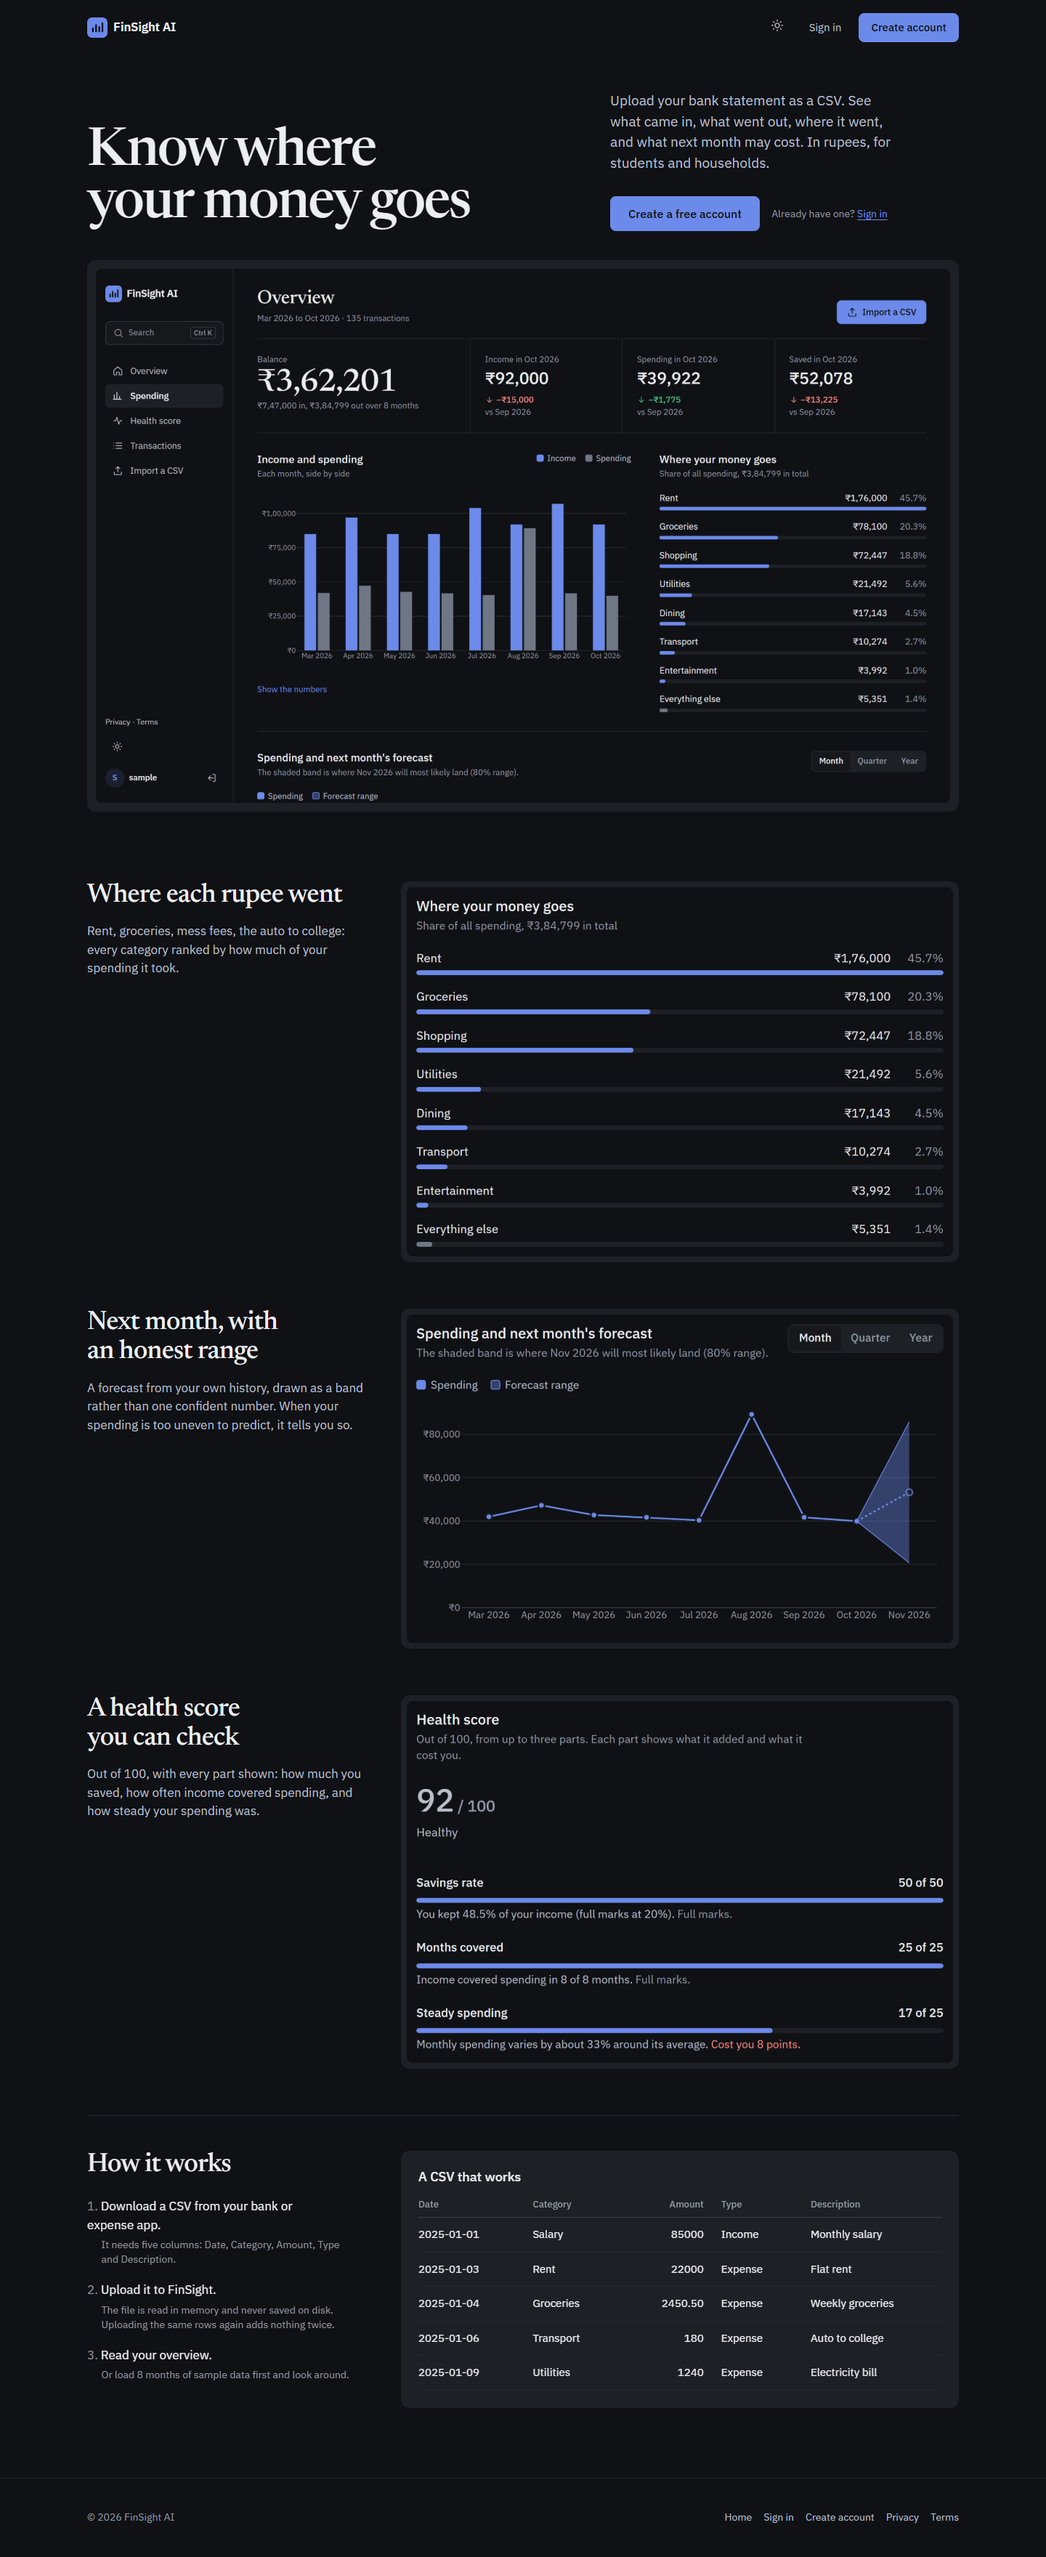
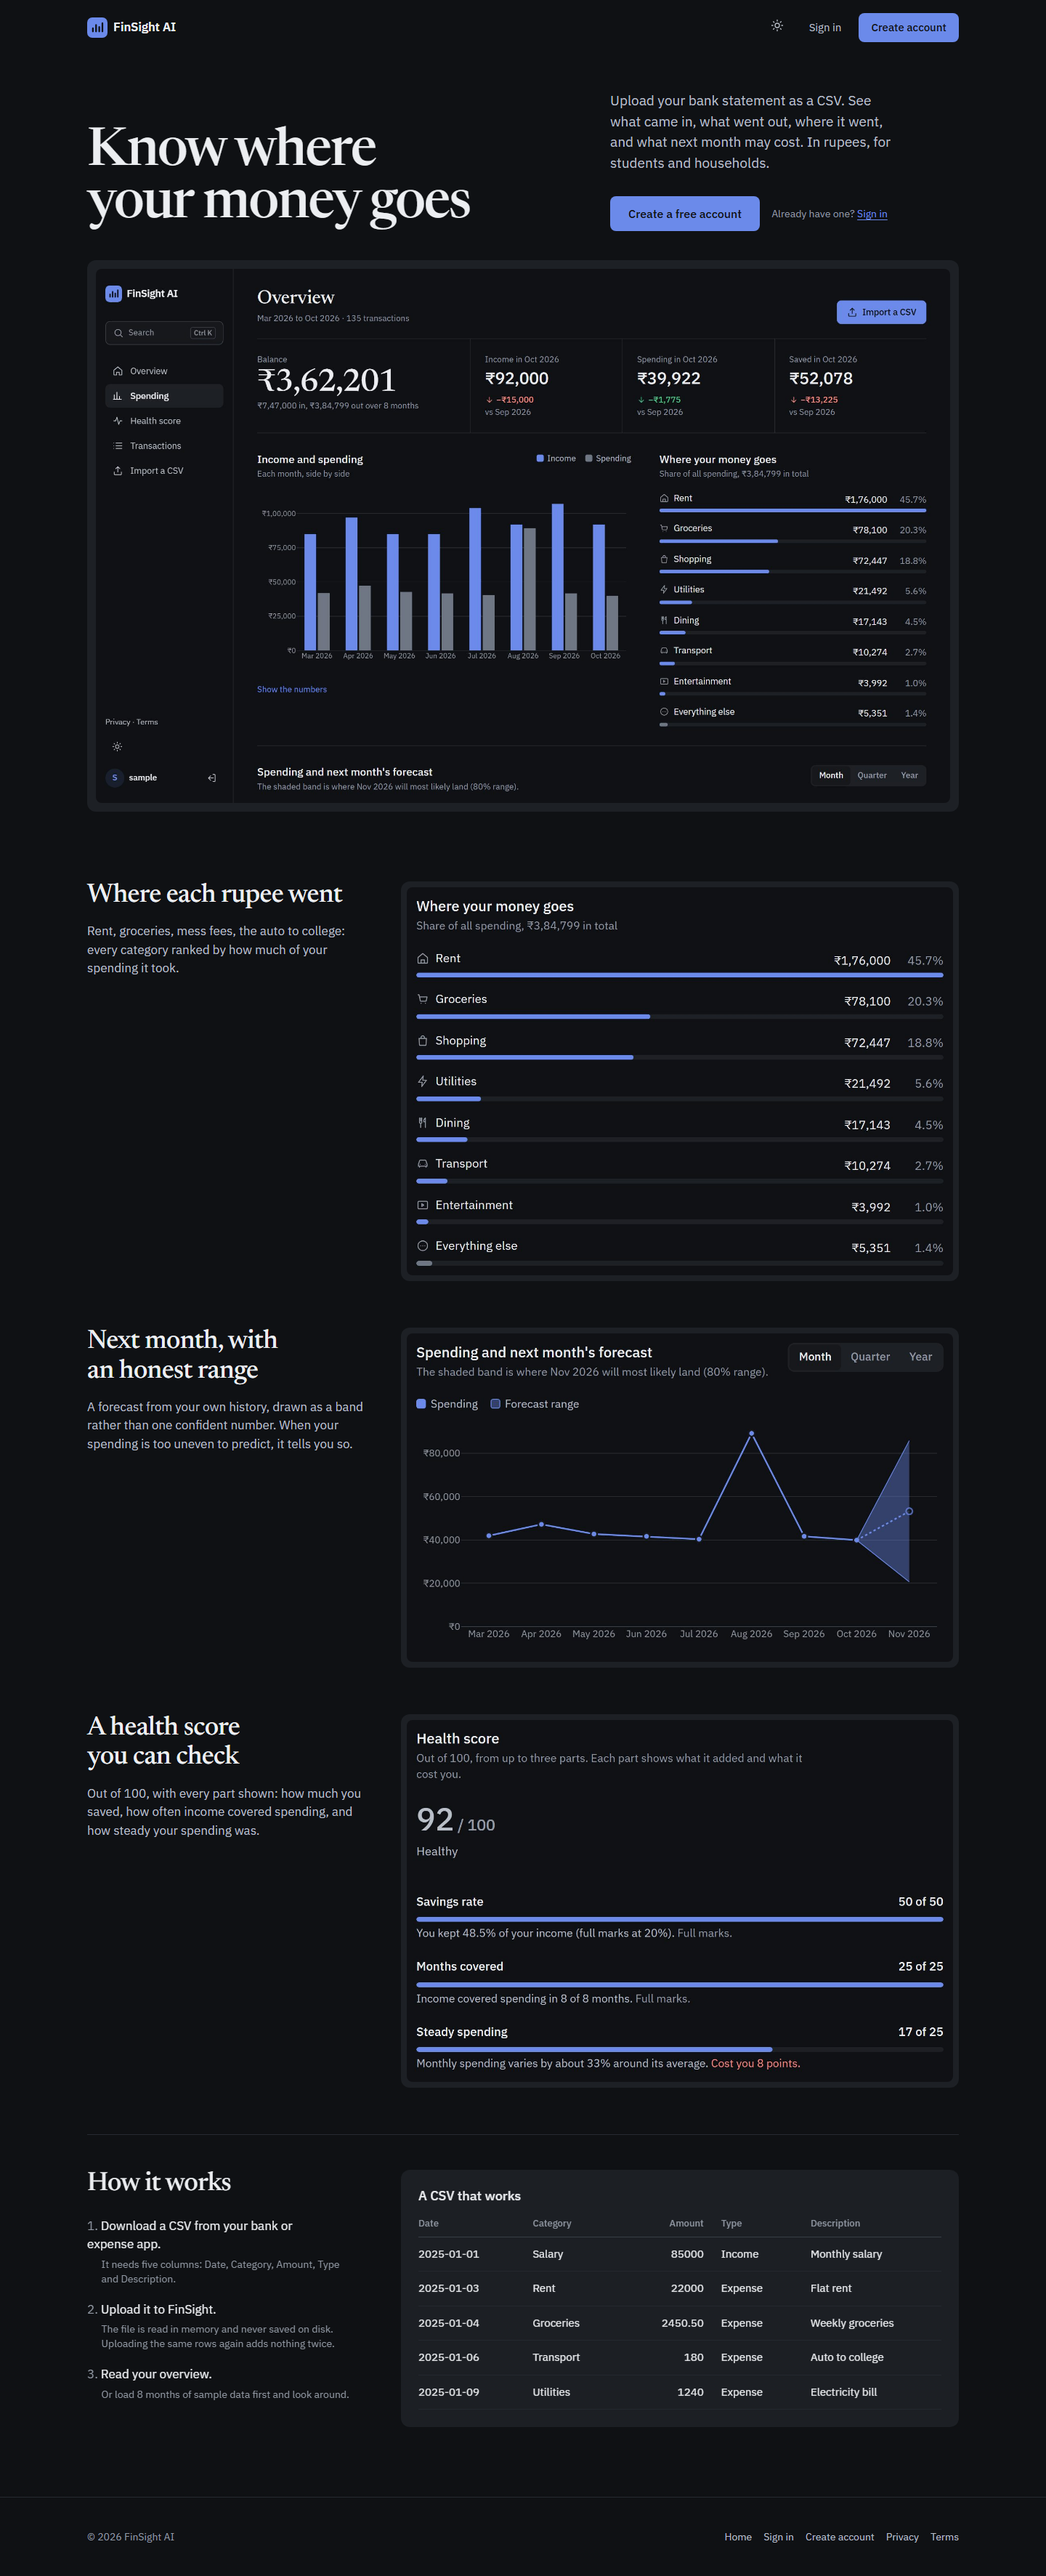
Screenshot the import review step; refresh the other captures
scripts/screenshots.py uploads a made-up 18-row statement with no Category
column and captures the review step at 1440 and 390 px, light and dark,
into docs/screenshots/import-review-*.png. The dashboard captures and the
landing crops are refreshed because the category bars now show icons. The
script falls back to Playwright's own Chromium when Google Chrome is not
installed.

diff --git a/scripts/screenshots.py b/scripts/screenshots.py
@@ -6,9 +6,10 @@ Starts the app on a throwaway database, signs up a sample user, loads the
 sample transactions, then saves:
 
 - static/img/<part>-<theme>.jpg   crops of the dashboard used on the landing page
-- docs/screenshots/<page>-<width>-<theme>.png   full pages for the README
+- docs/screenshots/<page>-<width>-<theme>.png   full pages for the README, including the
+  import review step for REVIEW_CSV (a made-up statement with no Category column)
 
-Needs the dev requirements (Playwright) and an installed Google Chrome.
+Needs the dev requirements (Playwright) and Google Chrome, or Playwright's Chromium.
 Nothing from the run is kept: the database lives in a temporary folder.
 """
 from __future__ import annotations
@@ -39,6 +40,27 @@ CROP_MARGIN = 12
 # displays a crop at (~750px), so the smallest chart text (12px) still shows at 13px or more.
 CROP_VIEWPORT = 940
 PAGES = {"landing": "/", "upload": "/upload", "dashboard": "/dashboard"}
+# A made-up statement without categories: keyword rules, model guesses and merchants left for the user.
+REVIEW_CSV = """Date,Amount,Type,Description
+2026-10-01,85000,Income,ACH/SALARY/ACME TECH/OCT2026
+2026-10-02,14000,Expense,IMPS/P2A/412345678901/KAVYA NAIR/HDFC0001234/rent oct
+2026-10-03,486,Expense,UPI/ZOMATO LTD/412345678902/Paid via PhonePe
+2026-10-09,312,Expense,UPI/ZOMATO LTD/412345678903/Paid via PhonePe
+2026-10-17,655,Expense,UPI/ZOMATO LTD/412345678904/Paid via PhonePe
+2026-10-04,1240,Expense,UPI/SWIGGY INSTAMART/412345678905/Order
+2026-10-11,968,Expense,UPI/SWIGGY INSTAMART/412345678906/Order
+2026-10-05,214,Expense,UPI/UBER INDIA/412345678907/Ride
+2026-10-12,187,Expense,UPI/UBER INDIA/412345678908/Ride
+2026-10-06,1890,Expense,BIL/BPAY/000123456/BESCOM
+2026-10-07,399,Expense,UPI/JIO PREPAID/412345678909/Recharge
+2026-10-08,649,Expense,NACH AUTO DEBIT/NETFLIX.COM/SI 7788
+2026-10-10,90,Expense,UPI/SRI GANAPATHI TIFFIN ROOM/412345678910
+2026-10-18,120,Expense,UPI/SRI GANAPATHI TIFFIN ROOM/412345678911
+2026-10-13,740,Expense,POS 4591XXXXXX1234 NEW HEALTH MEDICALS PUNE
+2026-10-14,2000,Expense,UPI/RAHUL S/412345678912
+2026-10-15,450,Expense,UPI/ANITA K/412345678913/split dinner
+2026-10-16,3000,Expense,ATM WDL/SBI ATM ANNA NAGAR/123456
+"""
 WIDTHS = {1440: 900, 390: 844}
 THEMES = ("light", "dark")
 
@@ -102,7 +124,10 @@ def main() -> None:
         threading.Thread(target=server.serve_forever, daemon=True).start()
         try:
             with sync_playwright() as p:
-                browser = p.chromium.launch(channel="chrome")
+                try:
+                    browser = p.chromium.launch(channel="chrome")
+                except Exception:  # no Google Chrome installed: Playwright's own Chromium (`playwright install chromium`)
+                    browser = p.chromium.launch()
                 signup = browser.new_context()
                 sign_up(signup)
                 storage = signup.storage_state()
@@ -128,8 +153,20 @@ def main() -> None:
                             save_crop(page, img_dir / f"{name}{suffix}-{theme}.jpg", first, last)
                         context.close()
 
+                review_csv = Path(tmp) / "statement-october.csv"
+                review_csv.write_text(REVIEW_CSV, encoding="utf-8")
                 for theme in THEMES:
                     for width, height in WIDTHS.items():
+                        # The review step only exists after an upload; nothing is saved until Save.
+                        context = themed_context(browser, theme, width, height, 1, storage)
+                        page = context.new_page()
+                        page.goto(f"{BASE}/upload")
+                        page.set_input_files("input[type=file]", str(review_csv))
+                        page.click("form.form button[type=submit]")
+                        settle(page)
+                        page.add_style_tag(content=".tabbar { position: static; } .review-actions { position: static; }")
+                        page.screenshot(path=shots_dir / f"import-review-{width}-{theme}.png", full_page=True)
+                        context.close()
                         for name, path in PAGES.items():
                             context = themed_context(browser, theme, width, height, 1, None if name == "landing" else storage)
                             page = context.new_page()
@@ -142,7 +179,7 @@ def main() -> None:
                 browser.close()
         finally:
             server.shutdown()
-    print(f"Saved {(len(CROPS) + 1) * len(THEMES) * 2} crops to {img_dir} and {len(PAGES) * len(WIDTHS) * len(THEMES)} pages to {shots_dir}")
+    print(f"Saved {(len(CROPS) + 1) * len(THEMES) * 2} crops to {img_dir} and {(len(PAGES) + 1) * len(WIDTHS) * len(THEMES)} pages to {shots_dir}")
 
 
 if __name__ == "__main__":
